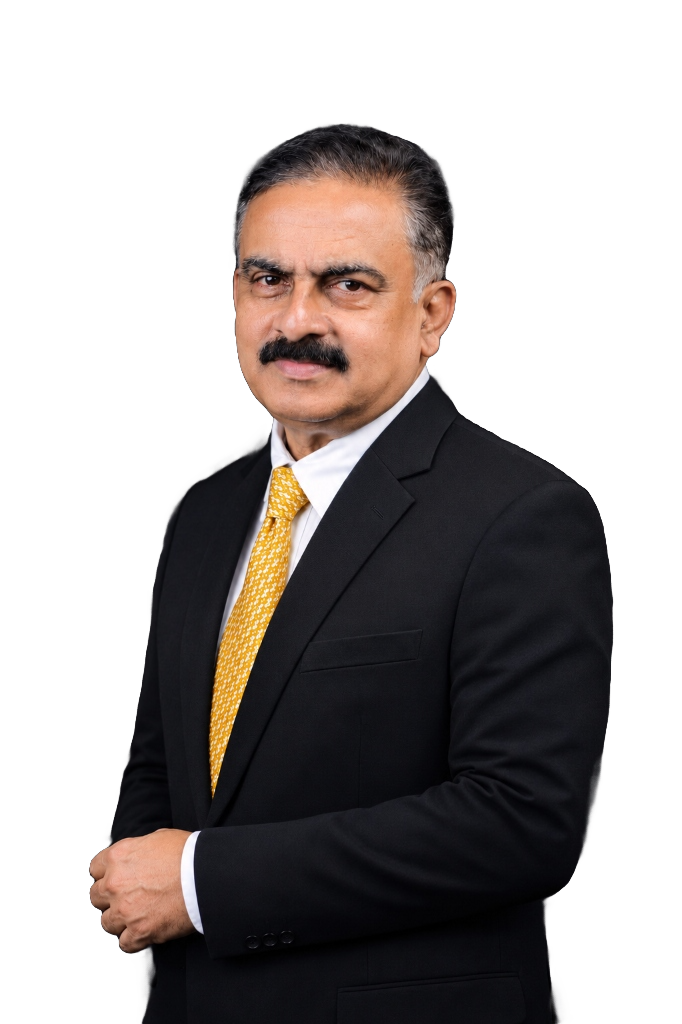
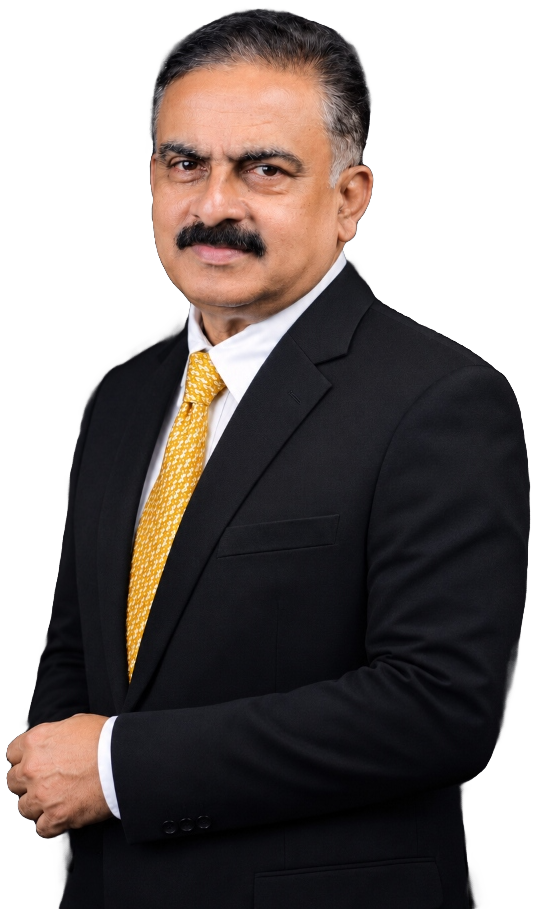
fix(hero): enlarge desktop doctor image, fix mobile hero alignment, and refine subpage widths

diff --git a/src/pages/ContactPage.tsx b/src/pages/ContactPage.tsx
@@ -182,32 +182,32 @@ export const ContactPage: React.FC = () => {
                     </div>
                   </div>
 
-                  <div className="contact-social-section">
-                    <span className="contact-social-heading">Connect on Social Channels</span>
-                    <div className="contact-social-grid">
-                      <a href="https://www.instagram.com/" target="_blank" rel="noopener noreferrer" className="contact-social-pill" title="Follow on Instagram">
-                        <svg width="15" height="15" viewBox="0 0 24 24" fill="none" stroke="currentColor" strokeWidth="2" strokeLinecap="round" strokeLinejoin="round">
-                          <rect x="2" y="2" width="20" height="20" rx="5" ry="5"/>
-                          <path d="M16 11.37A4 4 0 1 1 12.63 8 4 4 0 0 1 16 11.37z"/>
-                          <line x1="17.5" y1="6.5" x2="17.51" y2="6.5"/>
-                        </svg>
-                        <span>Instagram</span>
-                      </a>
-                      <a href="https://www.facebook.com/" target="_blank" rel="noopener noreferrer" className="contact-social-pill" title="Follow on Facebook">
-                        <svg width="15" height="15" viewBox="0 0 24 24" fill="none" stroke="currentColor" strokeWidth="2" strokeLinecap="round" strokeLinejoin="round">
-                          <path d="M18 2h-3a5 5 0 0 0-5 5v3H7v4h3v8h4v-8h3l1-4h-4V7a1 1 0 0 1 1-1h3z"/>
-                        </svg>
-                        <span>Facebook</span>
-                      </a>
-                      <a href="https://www.youtube.com/" target="_blank" rel="noopener noreferrer" className="contact-social-pill" title="Watch on YouTube">
-                        <svg width="15" height="15" viewBox="0 0 24 24" fill="none" stroke="currentColor" strokeWidth="2" strokeLinecap="round" strokeLinejoin="round">
-                          <path d="M22.54 6.42a2.78 2.78 0 0 0-1.94-2C18.88 4 12 4 12 4s-6.88 0-8.6.42a2.78 2.78 0 0 0-1.94 2A29 29 0 0 0 1 11.75a29 29 0 0 0 .46 5.33A2.78 2.78 0 0 0 3.4 19.1c1.72.46 8.6.46 8.6.46s6.88 0 8.6-.46a2.78 2.78 0 0 0 1.94-2 29 29 0 0 0 .46-5.25 29 29 0 0 0-.46-5.43z"/>
-                          <polygon points="9.75 15.02 15.5 11.75 9.75 8.48 9.75 15.02" fill="currentColor"/>
-                        </svg>
-                        <span>YouTube</span>
-                      </a>
+                    <div className="contact-social-section">
+                      <span className="contact-social-heading">Connect on Social Channels</span>
+                      <div className="contact-social-grid">
+                        <a href={siteSettings.instagramUrl || 'https://www.instagram.com/drjemkalathil'} target="_blank" rel="noopener noreferrer" className="contact-social-pill" title="Follow on Instagram">
+                          <svg width="15" height="15" viewBox="0 0 24 24" fill="none" stroke="currentColor" strokeWidth="2" strokeLinecap="round" strokeLinejoin="round">
+                            <rect x="2" y="2" width="20" height="20" rx="5" ry="5"/>
+                            <path d="M16 11.37A4 4 0 1 1 12.63 8 4 4 0 0 1 16 11.37z"/>
+                            <line x1="17.5" y1="6.5" x2="17.51" y2="6.5"/>
+                          </svg>
+                          <span>Instagram</span>
+                        </a>
+                        <a href={siteSettings.facebookUrl || 'https://www.facebook.com/drjemkalathil'} target="_blank" rel="noopener noreferrer" className="contact-social-pill" title="Follow on Facebook">
+                          <svg width="15" height="15" viewBox="0 0 24 24" fill="none" stroke="currentColor" strokeWidth="2" strokeLinecap="round" strokeLinejoin="round">
+                            <path d="M18 2h-3a5 5 0 0 0-5 5v3H7v4h3v8h4v-8h3l1-4h-4V7a1 1 0 0 1 1-1h3z"/>
+                          </svg>
+                          <span>Facebook</span>
+                        </a>
+                        <a href={siteSettings.youtubeUrl || 'https://www.youtube.com/@drjemkalathil'} target="_blank" rel="noopener noreferrer" className="contact-social-pill" title="Watch on YouTube">
+                          <svg width="15" height="15" viewBox="0 0 24 24" fill="none" stroke="currentColor" strokeWidth="2" strokeLinecap="round" strokeLinejoin="round">
+                            <path d="M22.54 6.42a2.78 2.78 0 0 0-1.94-2C18.88 4 12 4 12 4s-6.88 0-8.6.42a2.78 2.78 0 0 0-1.94 2A29 29 0 0 0 1 11.75a29 29 0 0 0 .46 5.33A2.78 2.78 0 0 0 3.4 19.1c1.72.46 8.6.46 8.6.46s6.88 0 8.6-.46a2.78 2.78 0 0 0 1.94-2 29 29 0 0 0 .46-5.25 29 29 0 0 0-.46-5.43z"/>
+                            <polygon points="9.75 15.02 15.5 11.75 9.75 8.48 9.75 15.02" fill="currentColor"/>
+                          </svg>
+                          <span>YouTube</span>
+                        </a>
+                      </div>
                     </div>
-                  </div>
                 </div>
               </div>
 

diff --git a/src/styles/components.css b/src/styles/components.css
@@ -728,6 +728,7 @@
 .hero-title-accent {
   color: var(--color-accent);
   font-weight: 600;
+  font-style: italic;
 }
 
 /* Doctor Authority Line */
@@ -932,7 +933,7 @@
 .hero-visual-stage {
   position: relative;
   width: 100%;
-  max-width: 620px;
+  max-width: 680px;
   margin: 0 auto;
 }
 
@@ -940,19 +941,19 @@
 .stage-portrait-box {
   position: relative;
   width: 100%;
-  margin-top: 52px;
+  margin-top: 32px;
 }
 
 /* Rounded Backdrop Frame (Highlighted Obsidian Black with champagne gold halo glow) */
 .stage-backdrop-frame {
   position: relative;
   z-index: 1;
-  width: 82%;
-  aspect-ratio: 1 / 1.14;
+  width: 88%;
+  aspect-ratio: 1 / 1.12;
   margin-top: 0;
   background: radial-gradient(circle at 35% 25%, rgba(200, 169, 106, 0.28) 0%, rgba(22, 22, 22, 0.95) 52%, #0c0c0c 100%);
   border: 1.5px solid rgba(200, 169, 106, 0.42);
-  border-radius: 34px;
+  border-radius: 36px;
   box-shadow: 0 32px 80px rgba(0, 0, 0, 0.85), 0 0 65px rgba(200, 169, 106, 0.2), inset 0 1px 0 rgba(200, 169, 106, 0.42);
   overflow: hidden;
 }
@@ -960,7 +961,7 @@
 .frame-inner-glow {
   position: absolute;
   top: 10%;
-  left: 34%;
+  left: 35%;
   transform: translateX(-50%);
   width: 85%;
   height: 75%;
@@ -973,10 +974,10 @@
 .stage-doctor-cutout-wrap {
   position: absolute;
   bottom: 0;
-  left: 34%;
+  left: 35%;
   transform: translateX(-50%);
-  width: 96%;
-  height: 116%;
+  width: 108%;
+  height: 126%;
   display: flex;
   align-items: flex-end;
   justify-content: center;
@@ -987,7 +988,7 @@
 .stage-doctor-img {
   width: auto;
   height: 100%;
-  max-height: 690px;
+  max-height: 760px;
   object-fit: contain;
   object-position: bottom center;
   display: block;
@@ -3973,7 +3974,7 @@
 
   .hero-visual-stage {
     width: 100%;
-    max-width: 360px;
+    max-width: 380px;
     margin: 0 auto;
     display: flex;
     flex-direction: column;
@@ -3983,13 +3984,13 @@
   .stage-portrait-box {
     position: relative;
     width: 100%;
-    margin-top: 26px;
+    margin-top: 18px;
   }
 
   .stage-backdrop-frame {
     width: 100%;
-    aspect-ratio: 1 / 1.06;
-    border-radius: 26px;
+    aspect-ratio: 1 / 1.12;
+    border-radius: 28px;
     margin-top: 0;
     box-shadow: 0 20px 50px rgba(0, 0, 0, 0.8), 0 0 35px rgba(200, 169, 106, 0.18);
   }
@@ -4000,17 +4001,17 @@
     left: 50%;
     transform: translateX(-50%);
     width: 100%;
-    height: 110%;
+    height: 114%;
     display: flex;
     align-items: flex-end;
     justify-content: center;
-    border-bottom-left-radius: 26px;
-    border-bottom-right-radius: 26px;
+    border-bottom-left-radius: 28px;
+    border-bottom-right-radius: 28px;
     overflow: hidden;
   }
 
   .stage-doctor-img {
-    max-height: 410px;
+    max-height: 440px;
     height: 100%;
     width: auto;
     object-fit: contain;
@@ -4335,6 +4336,26 @@
   color: #faf7f2;
   position: relative;
   overflow-x: hidden;
+}
+
+/* Constrain inner pages to prevent overly stretched full-width presentation */
+.subpage-wrapper .editorial-container {
+  max-width: 1140px;
+  margin-left: auto;
+  margin-right: auto;
+  padding-left: clamp(1rem, 2.5vw, 2rem);
+  padding-right: clamp(1rem, 2.5vw, 2rem);
+}
+
+.subpage-wrapper .subpage-hero-meta {
+  max-width: 840px;
+  margin: 0 auto;
+}
+
+.subpage-wrapper .subpage-stats-strip {
+  max-width: 840px;
+  margin: 32px auto 0;
+  justify-content: center;
 }
 
 /* 1. Subpage Editorial Header & Breadcrumb */

diff --git a/src/services/wordpress.ts b/src/services/wordpress.ts
@@ -456,6 +456,9 @@ export interface SiteSettingsData {
   consultationEmail: string;
   clinicAddress: string;
   opdSchedule: string;
+  instagramUrl?: string;
+  facebookUrl?: string;
+  youtubeUrl?: string;
 }
 
 export const DEFAULT_SITE_SETTINGS: SiteSettingsData = {
@@ -468,6 +471,9 @@ export const DEFAULT_SITE_SETTINGS: SiteSettingsData = {
   consultationEmail: 'surgical.oncology@asterhospital.com',
   clinicAddress: 'Aster Medcity, Cheranallur, Kochi, Kerala 682027, India',
   opdSchedule: 'Monday – Saturday, 09:00 AM – 04:00 PM IST',
+  instagramUrl: 'https://www.instagram.com/drjemkalathil',
+  facebookUrl: 'https://www.facebook.com/drjemkalathil',
+  youtubeUrl: 'https://www.youtube.com/@drjemkalathil',
 };
 
 /**
@@ -587,7 +593,10 @@ export async function fetchSiteSettings(): Promise<SiteSettingsData> {
   const acf = page.acf;
   return {
     doctorName: acf.doctor_name || DEFAULT_SITE_SETTINGS.doctorName,
-    doctorCredentials: acf.doctor_credentials || DEFAULT_SITE_SETTINGS.doctorCredentials,
+    doctorCredentials:
+      acf.doctor_credentials && !acf.doctor_credentials.includes('MBBS') && !acf.doctor_credentials.includes('General Surgery')
+        ? acf.doctor_credentials
+        : 'MS, FRCS',
     doctorRole: acf.doctor_role || DEFAULT_SITE_SETTINGS.doctorRole,
     experienceYears: acf.experience_years || DEFAULT_SITE_SETTINGS.experienceYears,
     secretaryPhone: acf.secretary_phone || DEFAULT_SITE_SETTINGS.secretaryPhone,
@@ -595,6 +604,9 @@ export async function fetchSiteSettings(): Promise<SiteSettingsData> {
     consultationEmail: acf.consultation_email || DEFAULT_SITE_SETTINGS.consultationEmail,
     clinicAddress: acf.clinic_address || DEFAULT_SITE_SETTINGS.clinicAddress,
     opdSchedule: acf.opd_schedule || DEFAULT_SITE_SETTINGS.opdSchedule,
+    instagramUrl: acf.instagram_url || DEFAULT_SITE_SETTINGS.instagramUrl,
+    facebookUrl: acf.facebook_url || DEFAULT_SITE_SETTINGS.facebookUrl,
+    youtubeUrl: acf.youtube_url || DEFAULT_SITE_SETTINGS.youtubeUrl,
   };
 }
 

diff --git a/src/components/Footer.tsx b/src/components/Footer.tsx
@@ -41,7 +41,7 @@ export const Footer: React.FC<FooterProps> = ({ onRequestSecondOpinion }) => {
               <span className="pub-social-title">Follow &amp; Connect:</span>
               <div className="pub-social-list">
                 <a
-                  href="https://www.instagram.com/"
+                  href={siteSettings.instagramUrl || 'https://www.instagram.com/drjemkalathil'}
                   target="_blank"
                   rel="noopener noreferrer"
                   className="pub-social-link"
@@ -57,7 +57,7 @@ export const Footer: React.FC<FooterProps> = ({ onRequestSecondOpinion }) => {
                 </a>
 
                 <a
-                  href="https://www.facebook.com/"
+                  href={siteSettings.facebookUrl || 'https://www.facebook.com/drjemkalathil'}
                   target="_blank"
                   rel="noopener noreferrer"
                   className="pub-social-link"
@@ -71,7 +71,7 @@ export const Footer: React.FC<FooterProps> = ({ onRequestSecondOpinion }) => {
                 </a>
 
                 <a
-                  href="https://www.youtube.com/"
+                  href={siteSettings.youtubeUrl || 'https://www.youtube.com/@drjemkalathil'}
                   target="_blank"
                   rel="noopener noreferrer"
                   className="pub-social-link"

diff --git a/index.html b/index.html
@@ -20,7 +20,7 @@
     <link rel="canonical" href="https://drjemkalathil.vercel.app/" />
     <link rel="preconnect" href="https://fonts.googleapis.com" />
     <link rel="preconnect" href="https://fonts.gstatic.com" crossorigin />
-    <link href="https://fonts.googleapis.com/css2?family=Montserrat:ital,wght@0,300;0,400;0,500;0,600;0,700;1,400&family=Playfair+Display:ital,wght@0,400;0,500;0,600;0,700;1,400;1,500&family=Poppins:ital,wght@0,300;0,400;0,500;0,600;1,400&display=swap" rel="stylesheet" />
+    <link href="https://fonts.googleapis.com/css2?family=Playfair+Display:ital,wght@0,400;0,500;0,600;0,700;1,400;1,500;1,600&family=Poppins:ital,wght@0,300;0,400;0,500;0,600;0,700;1,300;1,400;1,500;1,600;1,700&display=swap" rel="stylesheet" />
     
     <!-- Medical Schema.org JSON-LD for Google E-E-A-T & Knowledge Graph -->
     <script type="application/ld+json">
